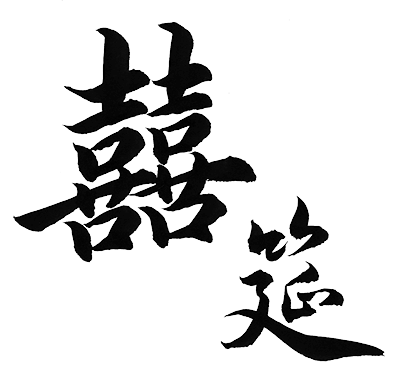
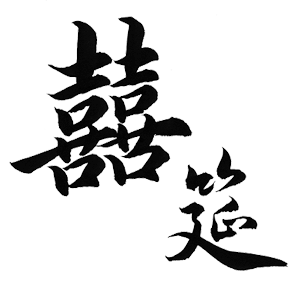
resize form image

diff --git a/ui/scss/_wedding.scss b/ui/scss/_wedding.scss
@@ -368,8 +368,8 @@ $rating-color: #797979;
     margin: 0px auto;
 }
 .dinner {
-    $width: 400px / 2;
-    $height: 391px /2;
+    $width: 300px / 2;
+    $height: 294px /2;
     background-image:  url("ui/images/form.png");
     width: $width;
     height: $height;
